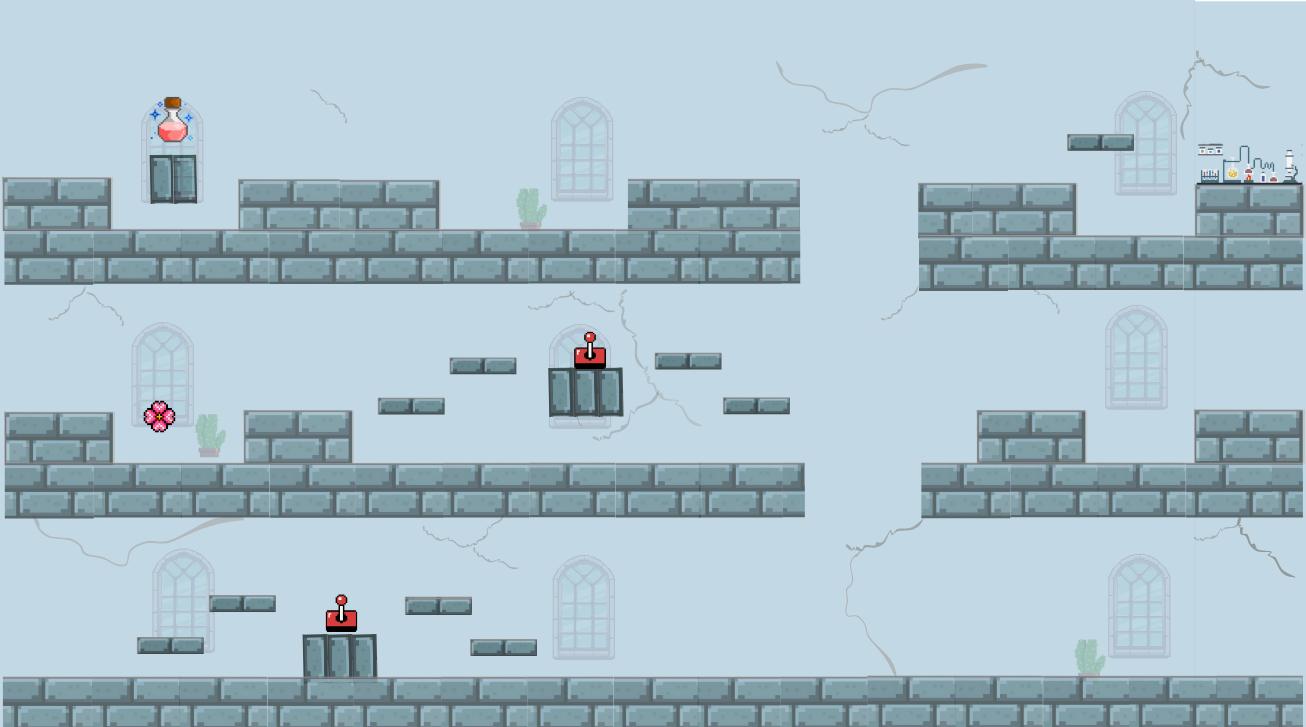
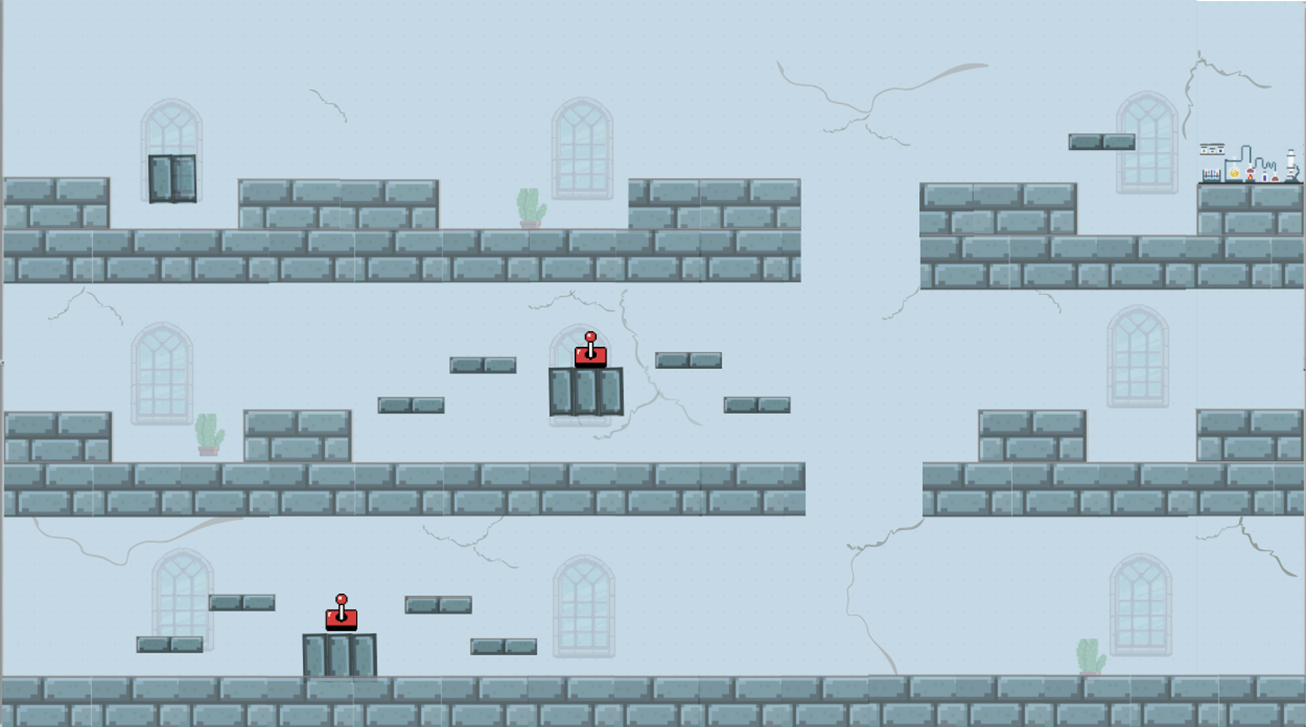
Updated game folder with new assets and logic

diff --git a/game/sketch.js b/game/sketch.js
@@ -115,18 +115,18 @@ function loadHardPlatforms() {
 
 
   //second floor
-  platforms.push({ x: 71 + xOffset, y: 269 + yOffset, width: 806, height: 54 });
-  platforms.push({ x: 986 + xOffset, y: 270 + yOffset, width: 384, height: 54 });
+  platforms.push({ x: 71 + xOffset, y: 271 + yOffset, width: 806, height: 54 });
+  platforms.push({ x: 986 + xOffset, y: 272 + yOffset, width: 384, height: 54 });
 
   //additional second floor platforms
-  platforms.push({ x: 296 + xOffset, y: 244 + yOffset, width: 158, height: 27 });
+  platforms.push({ x: 296 + xOffset, y: 247 + yOffset, width: 158, height: 27 });
   platforms.push({ x: 71 + xOffset, y: 218 + yOffset, width: 110, height: 52 });
   platforms.push({ x: 1262 + xOffset, y: 216 + yOffset, width: 107, height: 53 });
   platforms.push({ x: 1159 + xOffset, y: 224 + yOffset, width: 46, height: 18 });
   platforms.push({ x: 1098 + xOffset, y: 200 + yOffset, width: 47, height: 18 });
   platforms.push({ x: 1039 + xOffset, y: 228 + yOffset, width: 47, height: 18 });
-  platforms.push({ x: 225 + xOffset, y: 224 + yOffset, width: 39, height: 19 });
-  platforms.push({ x: 487 + xOffset, y: 223 + yOffset, width: 39, height: 19 });
+  platforms.push({ x: 225 + xOffset, y: 197 + yOffset, width: 39, height: 19 });
+  platforms.push({ x: 480 + xOffset, y: 225 + yOffset, width: 39, height: 19 });
   platforms.push({ x: 335 + xOffset, y: 152 + yOffset, width: 37, height: 19 });
   platforms.push({ x: 613 + xOffset, y: 188 + yOffset, width: 122, height: 18 });
 
@@ -368,24 +368,28 @@ function updateGame() {
       }
     }
 
-    const hitWaterChem = dist(chemistryPlayer.x, chemistryPlayer.y, 630 , 639) < 25 ;
-    const hitWaterBot = dist(botanyPlayer.x, botanyPlayer.y, 630 , 639) < 25 ;
-    const hitVapourChem = dist(chemistryPlayer.x, chemistryPlayer.y, 315 ,370) <70;
-    const hitVapourBot = dist(botanyPlayer.x, botanyPlayer.y, 320 , 370 )<70;
-    const hitFlowerChem = dist(chemistryPlayer.x, chemistryPlayer.y, 500 , 150) <17;
-    const hitFlowerBot = dist(botanyPlayer.x, botanyPlayer.y, 500 , 150 )<17;
-    const hitBombChem = dist(chemistryPlayer.x, chemistryPlayer.y, 1130 , 414) <20;
-    const hitBombBot = dist(botanyPlayer.x, botanyPlayer.y, 1130 , 414 )<20;
-    const hitDoublePlantBot =  dist(botanyPlayer.x, botanyPlayer.y, 1040 , 150 )<50;
-    const hitDoublePlantChem = dist(chemistryPlayer.x, chemistryPlayer.y, 1040 , 150) <50;
-    const hitVapourBombChem = dist(chemistryPlayer.x, chemistryPlayer.y, 355 ,400) <25;
-    const hitVapourBombBot = dist(botanyPlayer.x, botanyPlayer.y, 355 , 400 )<25;
+    const hitWaterChem = dist(chemistryPlayer.x, chemistryPlayer.y, 582+xOffset , 680+ yOffset) < 25 ;
+    const hitWaterBot = dist(botanyPlayer.x, botanyPlayer.y, 582+xOffset , 680+ yOffset) < 25 ;
+    const hitVapourChem = dist(chemistryPlayer.x, chemistryPlayer.y, 270+xOffset ,411+ yOffset) <70;
+    const hitVapourBot = dist(botanyPlayer.x, botanyPlayer.y, 270+xOffset , 411 + yOffset)<70;
+    const hitFlowerChem = dist(chemistryPlayer.x, chemistryPlayer.y, 515+xOffset ,  210 + yOffset) <30;
+    const hitFlowerBot = dist(botanyPlayer.x, botanyPlayer.y,  515+xOffset ,  210 + yOffset )<30;
+    const hitFlower2Chem = dist(chemistryPlayer.x, chemistryPlayer.y, 180+xOffset ,  180 + yOffset) <10;
+    const hitFlower2Bot = dist(botanyPlayer.x, botanyPlayer.y,  180+xOffset ,  180 + yOffset )<10;
+    const hitBombChem = dist(chemistryPlayer.x, chemistryPlayer.y, 1082+xOffset , 455+ yOffset) <20;
+    const hitBombBot = dist(botanyPlayer.x, botanyPlayer.y, 1082 +xOffset, 455 + yOffset)<20;
+    const hitDoublePlantBot =  dist(botanyPlayer.x, botanyPlayer.y, 992 +xOffset, 191 + yOffset)<50;
+    const hitDoublePlantChem = dist(chemistryPlayer.x, chemistryPlayer.y, 992+xOffset , 191+ yOffset) <50;
+    const hitVapourBombChem = dist(chemistryPlayer.x, chemistryPlayer.y, 307 +xOffset,441+ yOffset) <25;
+    const hitVapourBombBot = dist(botanyPlayer.x, botanyPlayer.y, 307+xOffset , 441 + yOffset)<25;
 
 
       // console.log("player x : ",chemistryPlayer.x);
       //  console.log("player y : ",chemistryPlayer.y)
       //  console.log("distance  : ",dist(chemistryPlayer.x, chemistryPlayer.y, 634 , 639) )
-    if(hitWaterChem || hitWaterBot ||  hitFlowerChem || hitFlowerBot|| hitBombChem || hitBombBot ||hitVapourBombChem || hitVapourBombBot){
+    if(hitWaterChem || hitWaterBot || hitBombChem || hitBombBot 
+      ||hitVapourBombChem || hitVapourBombBot || hitFlowerChem ||hitFlowerBot 
+      || hitFlower2Bot || hitFlower2Chem){
       gameController.triggerPlayerDied();
       chemistryPlayer.x = 750 + xOffset;
       chemistryPlayer.y = 640 + yOffset
@@ -511,7 +515,7 @@ function updateGame() {
     // collects vial
     if (
       !chemistryPuzzle.vialCollected &&
-      dist(chemistryPlayer.x, chemistryPlayer.y, 253 + xOffset, 174 + yOffset) < 30
+      dist(chemistryPlayer.x, chemistryPlayer.y, 240 + xOffset, 150 + yOffset) < 30
     ) {
       chemistryPuzzle.vialCollected = true;
       gameController.collectIngredient();

diff --git a/game/ChemistryPuzzle.js b/game/ChemistryPuzzle.js
@@ -44,48 +44,36 @@ class ChemistryPuzzle {
     
       // Hide popups if player walks away from book and vial
       // uses temp player - delete later
+      let nearFlask = false;
       const nearBook = dist(chemistryPlayer.x, chemistryPlayer.y, 620 + xOffset, 382 + yOffset) < 60;
       const nearVial = dist(chemistryPlayer.x, chemistryPlayer.y, 1316 + xOffset, 419 + yOffset) < 60;
-      const nearLock = dist(chemistryPlayer.x, chemistryPlayer.y, 380 + xOffset, 590 + yOffset) < 30;
-      const nearKey = dist(chemistryPlayer.x, chemistryPlayer.y, 1240 + xOffset, 670 + yOffset) < 30;
-      const nearFlask = dist(chemistryPlayer.x, chemistryPlayer.y, 145 + xOffset, 425 + yOffset) < 30;
 
-      // if(!this.keyCollected && nearKey){
-      //   this.keyCollected = true;
-      // }
+      
+      if (gameManager.getDifficulty() === "easy") {
+        nearFlask = dist(chemistryPlayer.x, chemistryPlayer.y, 240 + xOffset, 150 + yOffset) < 30;
+
+      } else {
+       nearFlask = dist(chemistryPlayer.x, chemistryPlayer.y, 145 + xOffset, 425 + yOffset) < 30;
+      }
+
 
       if(!this.flastCollected && nearFlask){
         this.flastCollected = true;
       }
 
-
-
-
-      //console.log("x : ", 320 + xOffset);
-      //console.log("y : ",  510 + yOffset)
-      /* UPDATED PLAYER
-      const nearBook = 
-      dist(botany.position.x, botany.position.y, 167 + xOffset, 422 + yOffset) < 60 ||
-      dist(chemistry.position.x, chemistry.position.y, 167 + xOffset, 422 + yOffset) < 60;
-
-      const nearVial = 
-      dist(botany.position.x, botany.position.y, 1316 + xOffset, 419 + yOffset) < 60 ||
-      dist(chemistry.position.x, chemistry.position.y, 1316 + xOffset, 419 + yOffset) < 60;
-      */
     
       if (!nearBook && !nearVial && !this.showSuccess && !this.vialCollected) {
         this.showInfoPopup = false;
         this.showQuestion = false;
       }
 
-      if(gameManager.getDifficulty() != "easy"){
         
-            this.drawFlowerObsDownImage();
+            //this.drawFlowerObsDownImage();
             if(!this.flastCollected){
               this.drawFlaskImage();
             }
 
-    }
+    
     }
 
     drawPopups() {
@@ -148,10 +136,17 @@ class ChemistryPuzzle {
     }
 
     drawFlaskImage() {
-      const imgWidth = 50;
-      const imgHeight = 50;
-      const x = 325 + xOffset - imgWidth / 2 - 170;
-      const y = 344 + yOffset + 50;
+      const imgWidth = 80;
+      const imgHeight = 80;
+      let x = 0;
+      let y = 0;
+      if (gameManager.getDifficulty() === "easy") {
+        x = 405 + xOffset - imgWidth / 2 - 170;
+        y = 70 + yOffset + 50;
+      }else{
+       x = 325 + xOffset - imgWidth / 2 - 170;
+       y = 315 + yOffset + 50;
+      }
       image(flaskImg, x, y, imgWidth, imgHeight);
     }
 

diff --git a/game/BotanyPuzzle.js b/game/BotanyPuzzle.js
@@ -29,10 +29,16 @@ class BotanyPuzzle {
   
     // calls each frame to manage visuals and logic
     update() {
+      let  nearFlower = false;
       // using temp player - delete later
       const nearNote = dist(botanyPlayer.x, botanyPlayer.y, 140 + xOffset, 169 + yOffset) < 60; 
       const nearPlant = dist(botanyPlayer.x, botanyPlayer.y, 370 + xOffset, 203 + yOffset) < 60;
-      const nearFlower = dist(botanyPlayer.x, botanyPlayer.y, 1150 + xOffset, 200 + yOffset) < 30;
+      if (gameManager.getDifficulty() === "easy") {
+             nearFlower =  dist(botanyPlayer.x, botanyPlayer.y, 240 + xOffset, 463 + yOffset) < 30
+      }
+      else {
+             nearFlower = dist(botanyPlayer.x, botanyPlayer.y, 1150 + xOffset, 200 + yOffset) < 30;
+      }
       // console.log("player x : ",botanyPlayer.x);
       // console.log("player y : ",botanyPlayer.y)
       // console.log("distance  : ", dist(botanyPlayer.x, botanyPlayer.y, 1180 + xOffset, 215 + yOffset) )
@@ -116,9 +122,18 @@ class BotanyPuzzle {
       drawFlowerImage() {
         const imgWidth = 30;
         const imgHeight = 30;
-        const x = 1350 + xOffset - imgWidth / 2 - 170;
-        const y = 140 + yOffset + 50;
+        let x,y;
+
+        if (gameManager.getDifficulty() === "easy") {
+          // Easy mode plant position
+          x = 240 + xOffset - imgWidth / 2 + 30;
+          y = 483 + yOffset - imgHeight - 10;
+        } else {
+           x = 1350 + xOffset - imgWidth / 2 - 170;
+           y = 140 + yOffset + 50;
+        }
         image(flowerImg, x, y, imgWidth, imgHeight);
+
       }
 
   
